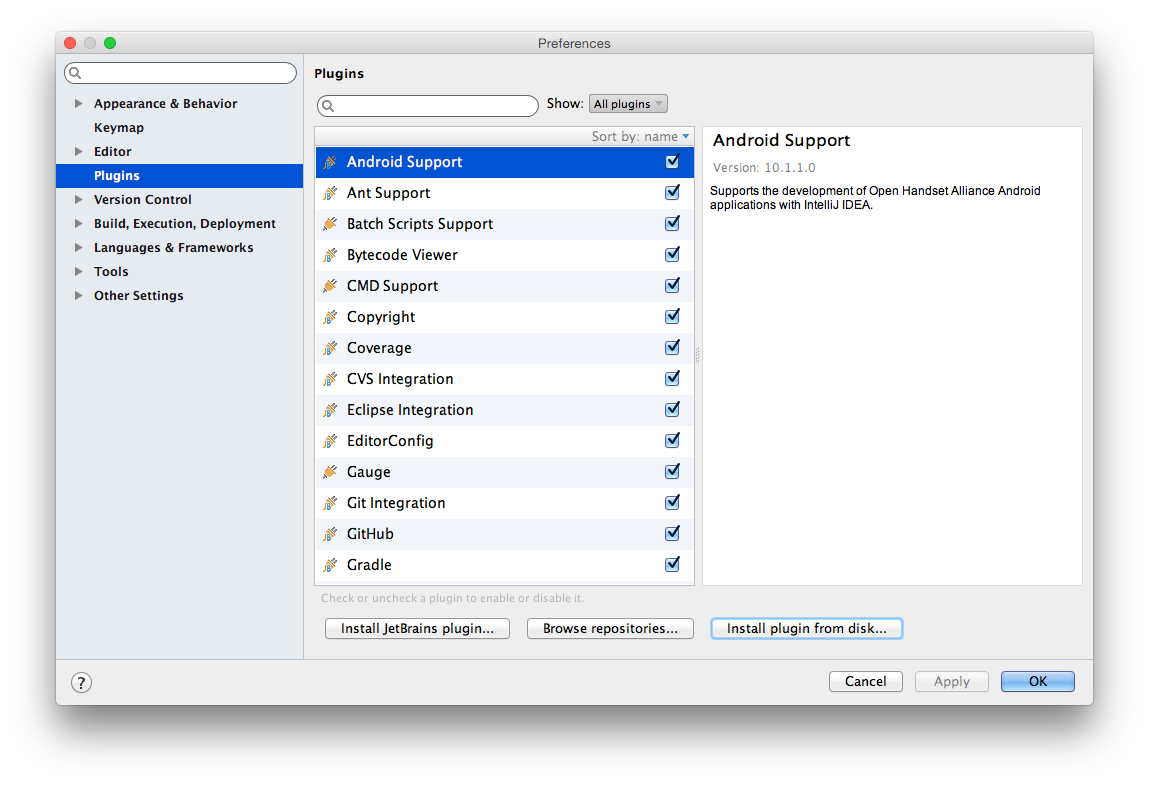
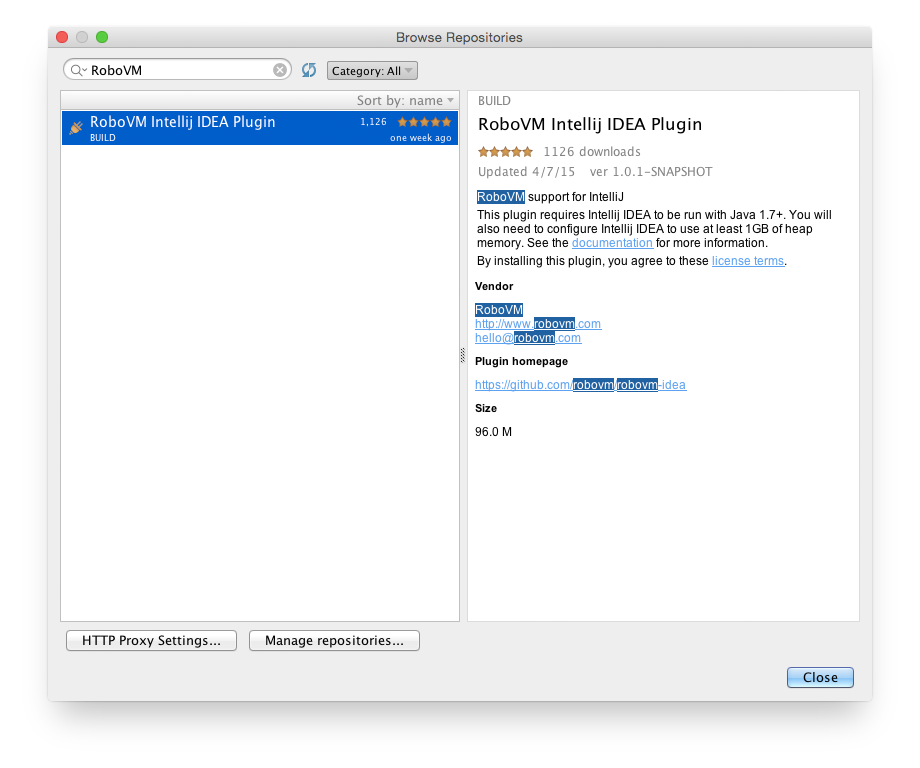
Improvements to getting started with intellij

Changed region(s): [[0.0304, 0.0312, 0.9739, 0.9375]]

diff --git a/en/getting-started/intellij.md b/en/getting-started/intellij.md
@@ -8,19 +8,23 @@ This section shows how to build and test RoboVM iOS applications using IntelliJ 
 
 With all the [prerequisites](../getting-started/introduction.md) out of the way, proceed to download the latest IntelliJ version from https://www.jetbrains.com/idea/download/. The IDE comes in two different flavors, Ultimate and Community, and both work perfectly with the RoboVM plugin.
 
-> IMPORTANT: IntelliJ *MUST* be run using Oracle’s Java SE 7 JDK or later. Apple’s Java 6 JVM will not work. Locate your IntelliJ installation folder, right-click the IntelliJ application and select _Show Package Contents_. Open the `Info.plist` file located in `Contents` by double clicking it and make sure the _JVMVersion_ entry under _JVMOptions_ is set to 1.7+.
+There are three __important__ steps that must be completed in order to properly setup IntelliJ for working with RoboVM.
 
-> IMPORTANT: The default max heap setting for IntelliJ is set too low by default. In order to increase it *you need to change the -Xmx setting used when launching IntelliJ*. To do this, locate your IntelliJ installation folder, right-click the IntelliJ application, and select __Show Package Contents__. Open the `idea.vmoptions` file located in `Contents/bin` in a text editor and change the -Xmx value to 2G or more.
+1. IntelliJ _MUST_ be run using Oracle’s Java SE 7 JDK or later. Apple’s Java 6 JVM will not work. Locate your IntelliJ installation folder, right-click the IntelliJ application and select _Show Package Contents_. Open the `Info.plist` file located in `Contents` by double clicking it and make sure the _JVMVersion_ entry under _JVMOptions_ is set to 1.7+.
+
+2. The default max heap setting for IntelliJ is set too low by default. In order to increase it *you need to change the -Xmx setting used when launching IntelliJ*. To do this, locate your IntelliJ installation folder, right-click the IntelliJ application, and select _Show Package Contents_. Open the `idea.vmoptions` file located in `Contents/bin` in a text editor and change the -Xmx value to 1G or more.
+
+3. You can now configure a JDK by navigating to _Configure > Project Defaults > Project Structure_ on the _Welcome to IntelliJ IDEA_ dialog. Select _SDKs_ in the left pane, click the plus sign, and choose JDK. IntelliJ will be smart enough to find your JDK installations, so just select the one you want to use.
 
 > IMPORTANT: for Interface Builder integration to work, *you need to enable automatic project compilation*. Open the IntelliJ IDEA _Preferences_, select __Build, Execution, Deployment -> Compiler__ and check the __Make project automatically__ checkbox. This will automatically compile any source files after you save modifications. 
 
 ### Installing the Plugin
 
-With IntelliJ setup, you are ready to install the RoboVM IntelliJ plugin. For now you can download a [nightly build](http://download.robovm.org/nightlies/idea/org.robovm.idea-1.0.1-SNAPSHOT-plugin-dist-20150413_022328-38.jar), then open the IntelliJ _Preferences_ and select the _Plugins_ entry in the pane to the left. Click the _Install plugin from disk_ button at the bottom, and navigate to where you downloaded the jar file. Install the plugin and restart IntelliJ.
-
-> NOTE: In the future, you will be able to install and update the RoboVM plugin from the IntelliJ repositories.
+With IntelliJ setup, you are ready to install the RoboVM IntelliJ plugin. Open the IntelliJ _Preferences_ and select the _Plugins_ entry in the pane to the left. Click the _Browse repositories_ button at the bottom, and search for RoboVM.
 
 ![Install plugin from disk dialog](/images/intellij-install-plugin.png)
+
+> NOTE: You can use a nightly build by downloading the latest IDEA plugin from [http://download.robovm.org/](http://download.robovm.org/). Then, instead of clicking _Browse repositories_ on the plugins dialog, use the _Install plugin from disk_ option and navigate to the downloaded jar file.
 
 ## Activating your License 
 
@@ -36,7 +40,7 @@ as debugging support or Interface Builder integration. Select _License Manager_ 
 
 ## Creating a New Project
 
-Creating a new iOS project from within IntelliJ is just like any other project type. Selecting __File > New > Project__ will open the dialog shown below.
+Creating a new iOS project from within IntelliJ is just like any other project type. Selecting __File > New > Project__ will open the dialog shown below, where you should choose _RoboVM iOS App without storyboards_.
 
 ![New Project Wizard](/images/intellij-project-wizard.png)
 
